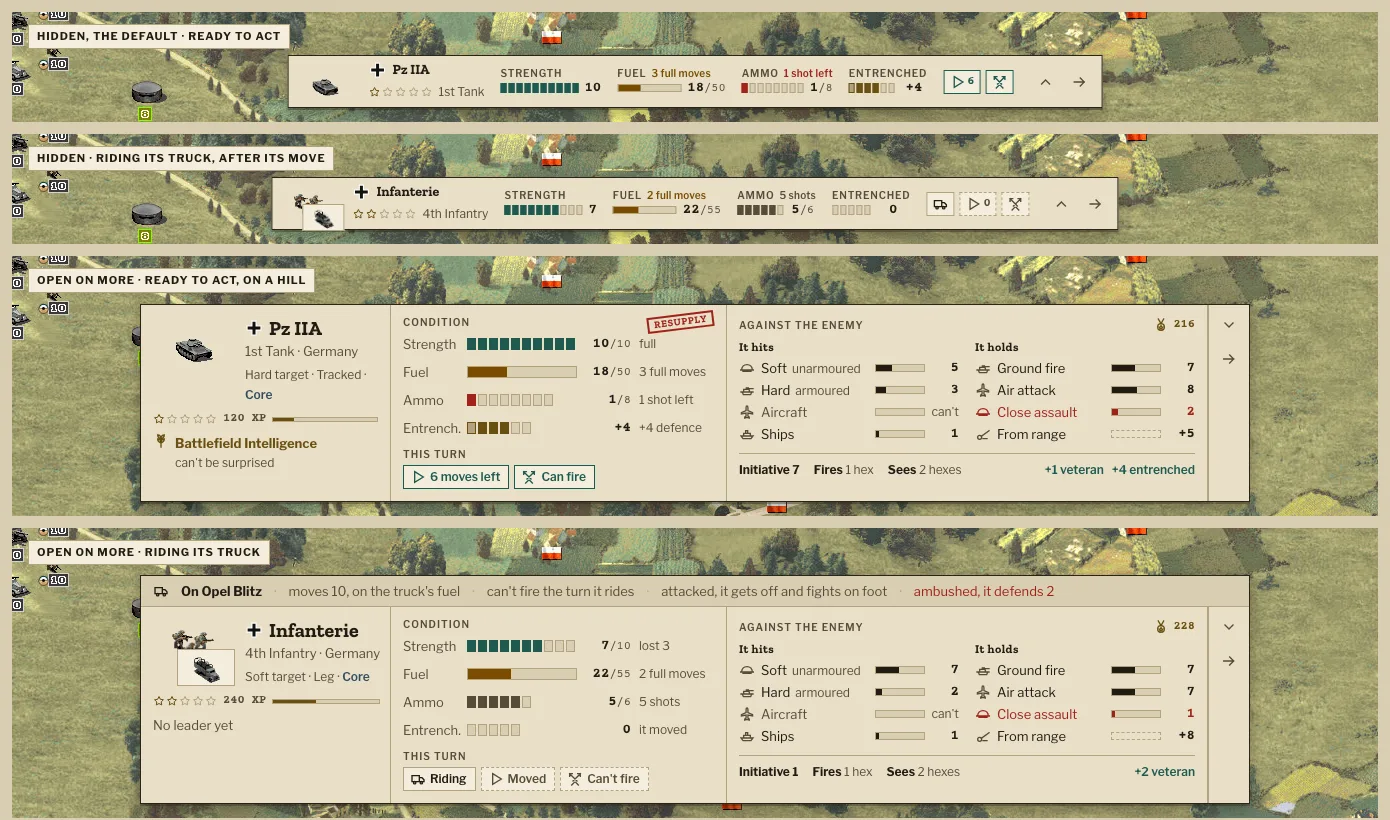
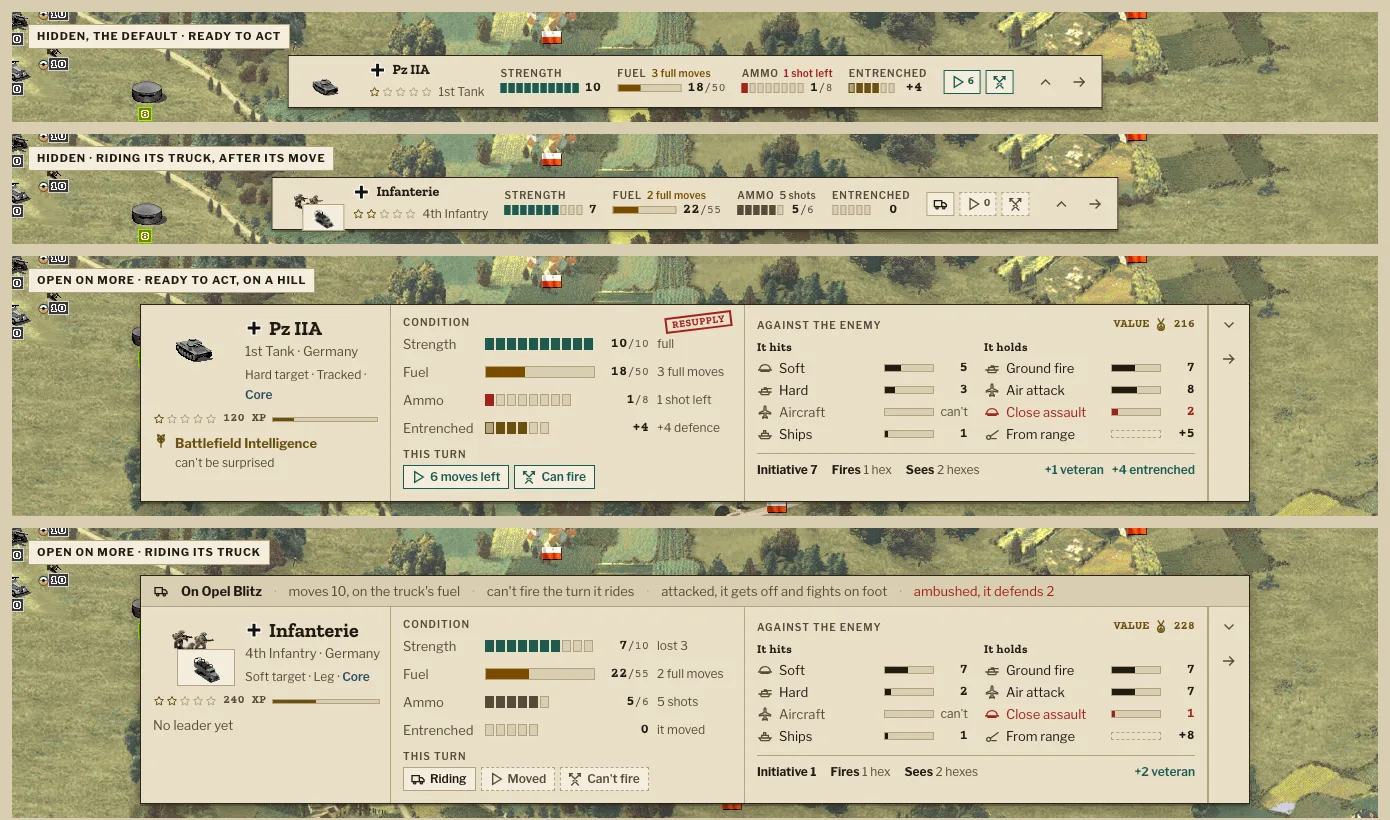
Tie every phrase of the proposed unit card to a core function
After the second review: the README's table names the core function behind each phrase (moves left from unitMoveRange, full moves from the same range, Can fire as the map's marker has it, entrenchment with all its exceptions, veteran, Resupply, the riding band) and says which still have to be written; the weak defence has a rule; Soft and Hard alone, explained in a tooltip; Value labelled; Entrenched in both sizes; over strength and aircraft fuel covered; the open card never opens by itself.

Changed region(s): [[0.3403, 0.3659, 0.7734, 0.5793], [0.3403, 0.7622, 0.7734, 0.9451], [0.8043, 0.3659, 0.8353, 0.3963]]

diff --git a/docs/ui/components/UnitInfo/preview.html b/docs/ui/components/UnitInfo/preview.html
@@ -39,14 +39,14 @@
   <div class="uc-c ok"><span class="k">Strength</span><span class="uc-segs" aria-hidden="true"><i class="on"></i><i class="on"></i><i class="on"></i><i class="on"></i><i class="on"></i><i class="on"></i><i class="on"></i><i class="on"></i><i class="on"></i><i class="on"></i></span><span class="v">10<small>/10</small></span><span class="say">full</span></div>
   <div class="uc-c low"><span class="k">Fuel</span><span class="uc-bar" aria-hidden="true"><b style="width:36%"></b></span><span class="v">18<small>/50</small></span><span class="say">3 full moves</span></div>
   <div class="uc-c critical"><span class="k">Ammo</span><span class="uc-segs" aria-hidden="true"><i class="on"></i><i class=""></i><i class=""></i><i class=""></i><i class=""></i><i class=""></i><i class=""></i><i class=""></i></span><span class="v">1<small>/8</small></span><span class="say">1 shot left</span></div>
-  <div class="uc-c dug"><span class="k" title="Entrenchment: the hill gives 1 at once, up to 6 here">Entrench.</span><span class="uc-segs" aria-hidden="true"><i class="on t"></i><i class="on"></i><i class="on"></i><i class="on"></i><i class=""></i><i class=""></i></span><span class="v">+4</span><span class="say">+4 defence</span></div>
+  <div class="uc-c dug"><span class="k" title="Entrenchment: the hill gives 1 at once, up to 6 here">Entrenched</span><span class="uc-segs" aria-hidden="true"><i class="on t"></i><i class="on"></i><i class="on"></i><i class="on"></i><i class=""></i><i class=""></i></span><span class="v">+4</span><span class="say" title="Its level adds to its defence. Not against units that ignore entrenchment, nor against Infiltration Tactics or Street Fighter in a city, rough ground or a port (unless it has Ferocious Defense); twice for infantry in a city, forest or mountain attacked by a tank, recon or anti-tank">+4 defence</span></div>
     <div class="uc-h t">This turn</div>
     <div class="uc-turn"><span class="uc-chip ok"><svg class="i sm" aria-hidden="true"><use href="#pm-play"/></svg>6 moves left</span><span class="uc-chip ok"><svg class="i sm" aria-hidden="true"><use href="#pm-attack"/></svg>Can fire</span></div>
   </div>
   <div class="uc-col uc-vs">
-    <div class="uc-h"><span>Against the enemy</span><span class="uc-val"><svg class="i sm" aria-hidden="true"><use href="#pm-prestige"/></svg>216</span></div>
+    <div class="uc-h"><span>Against the enemy</span><span class="uc-val" title="What the unit is worth, in prestige">Value <svg class="i sm" aria-hidden="true"><use href="#pm-prestige"/></svg>216</span></div>
     <div class="uc-two">
-      <div><div class="uc-sh">It hits</div><div class="uc-m"><svg class="i sm" aria-hidden="true"><use href="#pm-infantry"/></svg><span class="k">Soft<small>unarmoured</small></span><span class="uc-bar" aria-hidden="true"><b style="width:33%"></b></span><span class="v">5</span></div><div class="uc-m"><svg class="i sm" aria-hidden="true"><use href="#pm-tank"/></svg><span class="k">Hard<small>armoured</small></span><span class="uc-bar" aria-hidden="true"><b style="width:20%"></b></span><span class="v">3</span></div><div class="uc-m none"><svg class="i sm" aria-hidden="true"><use href="#pm-air"/></svg><span class="k">Aircraft</span><span class="uc-bar"></span><span class="v">can't</span></div><div class="uc-m"><svg class="i sm" aria-hidden="true"><use href="#pm-naval"/></svg><span class="k">Ships</span><span class="uc-bar" aria-hidden="true"><b style="width:7%"></b></span><span class="v">1</span></div></div>
+      <div><div class="uc-sh">It hits</div><div class="uc-m"><svg class="i sm" aria-hidden="true"><use href="#pm-infantry"/></svg><span class="k" title="Soft targets: unarmoured. Infantry, towed guns, trucks, most bunkers">Soft</span><span class="uc-bar" aria-hidden="true"><b style="width:33%"></b></span><span class="v">5</span></div><div class="uc-m"><svg class="i sm" aria-hidden="true"><use href="#pm-tank"/></svg><span class="k" title="Hard targets: armoured. Tanks, armoured cars, halftracks, self-propelled guns">Hard</span><span class="uc-bar" aria-hidden="true"><b style="width:20%"></b></span><span class="v">3</span></div><div class="uc-m none"><svg class="i sm" aria-hidden="true"><use href="#pm-air"/></svg><span class="k">Aircraft</span><span class="uc-bar"></span><span class="v">can't</span></div><div class="uc-m"><svg class="i sm" aria-hidden="true"><use href="#pm-naval"/></svg><span class="k">Ships</span><span class="uc-bar" aria-hidden="true"><b style="width:7%"></b></span><span class="v">1</span></div></div>
       <div><div class="uc-sh">It holds</div><div class="uc-m"><svg class="i sm" aria-hidden="true"><use href="#pm-ground"/></svg><span class="k">Ground fire</span><span class="uc-bar" aria-hidden="true"><b style="width:47%"></b></span><span class="v">7</span></div><div class="uc-m"><svg class="i sm" aria-hidden="true"><use href="#pm-air"/></svg><span class="k">Air attack</span><span class="uc-bar" aria-hidden="true"><b style="width:53%"></b></span><span class="v">8</span></div><div class="uc-m weak"><svg class="i sm" aria-hidden="true"><use href="#pm-infantry"/></svg><span class="k">Close assault</span><span class="uc-bar" aria-hidden="true"><b style="width:13%"></b></span><span class="v">2</span></div><div class="uc-m"><svg class="i sm" aria-hidden="true"><use href="#pm-artillery"/></svg><span class="k">From range</span><span class="uc-bar plus"></span><span class="v">+5</span></div></div>
     </div>
     <div class="uc-foot">
@@ -76,14 +76,14 @@
   <div class="uc-c ok"><span class="k">Strength</span><span class="uc-segs" aria-hidden="true"><i class="on"></i><i class="on"></i><i class="on"></i><i class="on"></i><i class="on"></i><i class="on"></i><i class="on"></i><i class=""></i><i class=""></i><i class=""></i></span><span class="v">7<small>/10</small></span><span class="say">lost 3</span></div>
   <div class="uc-c low"><span class="k">Fuel</span><span class="uc-bar" aria-hidden="true"><b style="width:40%"></b></span><span class="v">22<small>/55</small></span><span class="say">2 full moves</span></div>
   <div class="uc-c "><span class="k">Ammo</span><span class="uc-segs" aria-hidden="true"><i class="on"></i><i class="on"></i><i class="on"></i><i class="on"></i><i class="on"></i><i class=""></i></span><span class="v">5<small>/6</small></span><span class="say">5 shots</span></div>
-  <div class="uc-c dug"><span class="k" title="Entrenchment">Entrench.</span><span class="uc-segs" aria-hidden="true"><i class=""></i><i class=""></i><i class=""></i><i class=""></i><i class=""></i></span><span class="v">0</span><span class="say">it moved</span></div>
+  <div class="uc-c dug"><span class="k" title="Entrenchment: up to 5 in the open">Entrenched</span><span class="uc-segs" aria-hidden="true"><i class=""></i><i class=""></i><i class=""></i><i class=""></i><i class=""></i></span><span class="v">0</span><span class="say">it moved</span></div>
     <div class="uc-h t">This turn</div>
     <div class="uc-turn"><span class="uc-chip "><svg class="i sm" aria-hidden="true"><use href="#pm-mount"/></svg>Riding</span><span class="uc-chip off"><svg class="i sm" aria-hidden="true"><use href="#pm-play"/></svg>Moved</span><span class="uc-chip off"><svg class="i sm" aria-hidden="true"><use href="#pm-attack"/></svg>Can't fire</span></div>
   </div>
   <div class="uc-col uc-vs">
-    <div class="uc-h"><span>Against the enemy</span><span class="uc-val"><svg class="i sm" aria-hidden="true"><use href="#pm-prestige"/></svg>228</span></div>
+    <div class="uc-h"><span>Against the enemy</span><span class="uc-val" title="What the unit is worth, in prestige">Value <svg class="i sm" aria-hidden="true"><use href="#pm-prestige"/></svg>228</span></div>
     <div class="uc-two">
-      <div><div class="uc-sh">It hits</div><div class="uc-m"><svg class="i sm" aria-hidden="true"><use href="#pm-infantry"/></svg><span class="k">Soft<small>unarmoured</small></span><span class="uc-bar" aria-hidden="true"><b style="width:47%"></b></span><span class="v">7</span></div><div class="uc-m"><svg class="i sm" aria-hidden="true"><use href="#pm-tank"/></svg><span class="k">Hard<small>armoured</small></span><span class="uc-bar" aria-hidden="true"><b style="width:13%"></b></span><span class="v">2</span></div><div class="uc-m none"><svg class="i sm" aria-hidden="true"><use href="#pm-air"/></svg><span class="k">Aircraft</span><span class="uc-bar"></span><span class="v">can't</span></div><div class="uc-m"><svg class="i sm" aria-hidden="true"><use href="#pm-naval"/></svg><span class="k">Ships</span><span class="uc-bar" aria-hidden="true"><b style="width:7%"></b></span><span class="v">1</span></div></div>
+      <div><div class="uc-sh">It hits</div><div class="uc-m"><svg class="i sm" aria-hidden="true"><use href="#pm-infantry"/></svg><span class="k" title="Soft targets: unarmoured. Infantry, towed guns, trucks, most bunkers">Soft</span><span class="uc-bar" aria-hidden="true"><b style="width:47%"></b></span><span class="v">7</span></div><div class="uc-m"><svg class="i sm" aria-hidden="true"><use href="#pm-tank"/></svg><span class="k" title="Hard targets: armoured. Tanks, armoured cars, halftracks, self-propelled guns">Hard</span><span class="uc-bar" aria-hidden="true"><b style="width:13%"></b></span><span class="v">2</span></div><div class="uc-m none"><svg class="i sm" aria-hidden="true"><use href="#pm-air"/></svg><span class="k">Aircraft</span><span class="uc-bar"></span><span class="v">can't</span></div><div class="uc-m"><svg class="i sm" aria-hidden="true"><use href="#pm-naval"/></svg><span class="k">Ships</span><span class="uc-bar" aria-hidden="true"><b style="width:7%"></b></span><span class="v">1</span></div></div>
       <div><div class="uc-sh">It holds</div><div class="uc-m"><svg class="i sm" aria-hidden="true"><use href="#pm-ground"/></svg><span class="k">Ground fire</span><span class="uc-bar" aria-hidden="true"><b style="width:47%"></b></span><span class="v">7</span></div><div class="uc-m"><svg class="i sm" aria-hidden="true"><use href="#pm-air"/></svg><span class="k">Air attack</span><span class="uc-bar" aria-hidden="true"><b style="width:47%"></b></span><span class="v">7</span></div><div class="uc-m weak"><svg class="i sm" aria-hidden="true"><use href="#pm-infantry"/></svg><span class="k">Close assault</span><span class="uc-bar" aria-hidden="true"><b style="width:7%"></b></span><span class="v">1</span></div><div class="uc-m"><svg class="i sm" aria-hidden="true"><use href="#pm-artillery"/></svg><span class="k">From range</span><span class="uc-bar plus"></span><span class="v">+8</span></div></div>
     </div>
     <div class="uc-foot">

diff --git a/docs/ui/components/bundle.css b/docs/ui/components/bundle.css
@@ -304,7 +304,7 @@
 .uc-acts{display:inline-flex;gap:2px}.uc-acts.col{flex-direction:column;align-items:center;padding:var(--space-1);border-left:1px solid var(--line)}
 .uc-act{inline-size:2rem;min-inline-size:2rem;min-block-size:2rem;color:var(--ink-muted)}.uc-act.up svg{rotate:180deg}
 /* open */
-.uc-open{display:grid;grid-template-columns:250px 336px 1fr auto;width:1110px}
+.uc-open{display:grid;grid-template-columns:250px 354px 1fr auto;width:1110px}
 .uc-ribbon{grid-column:1/-1;display:flex;align-items:center;gap:var(--space-3);padding:5px var(--space-3);background:var(--panel-sunken);border-bottom:1px solid var(--line);font-size:var(--type-small-size);color:var(--ink)}
 .uc-ribbon span{color:var(--ink-muted)}.uc-ribbon span::before{content:"·";margin-right:var(--space-3);color:var(--line)}.uc-ribbon .warn{color:var(--critical)}
 .uc-col{padding:var(--space-3);border-right:1px solid var(--line);display:grid;align-content:start;gap:6px}
@@ -318,7 +318,7 @@
 .uc-h{display:flex;justify-content:space-between;align-items:center;font:600 var(--type-micro-size)/1 var(--font-ui);letter-spacing:.1em;text-transform:uppercase;color:var(--ink-muted)}
 .uc-h.t{margin-top:4px}
 .uc-cond .uc-h .uc-stamp{font-size:var(--type-micro-size);letter-spacing:.06em;padding:1px 5px;rotate:-3deg;margin:-4px 0;max-inline-size:96px}
-.uc-c{display:grid;grid-template-columns:56px 112px 44px 1fr;align-items:center;gap:8px;min-height:22px}
+.uc-c{display:grid;grid-template-columns:74px 112px 44px 1fr;align-items:center;gap:8px;min-height:22px}
 .uc-c .k{font-size:var(--type-small-size);color:var(--ink-muted)}
 .uc-c .v{font:700 var(--type-body-size)/1 var(--font-mono);color:var(--ink);text-align:right}
 .uc-c .say{font-size:var(--type-note-size);color:var(--ink-muted);white-space:nowrap}
@@ -328,7 +328,7 @@
 .uc-two{display:grid;grid-template-columns:1fr 1fr;gap:var(--space-4)}
 .uc-sh{font:700 var(--type-note-size)/1 var(--font-display);color:var(--ink);margin:2px 0 4px;letter-spacing:.04em}
 .uc-m{display:grid;grid-template-columns:16px 1fr 50px 28px;align-items:center;gap:6px;min-height:22px;color:var(--ink);white-space:nowrap}
-.uc-m .i{color:var(--ink-muted)}.uc-m .k{font-size:var(--type-small-size)}.uc-m .k small{margin-left:5px;font-size:var(--type-note-size);color:var(--ink-muted)}.uc-m .uc-bar{inline-size:50px}.uc-m .uc-bar b{background:var(--ink)}
+.uc-m .i{color:var(--ink-muted)}.uc-m .k{font-size:var(--type-small-size)}.uc-m .uc-bar{inline-size:50px}.uc-m .uc-bar b{background:var(--ink)}
 .uc-m .v{font:700 var(--type-body-size)/1 var(--font-mono);text-align:right}
 .uc-m.none .k,.uc-m.none .v{color:var(--ink-muted);font-weight:400}.uc-m.none .v{font-family:var(--font-ui);font-size:var(--type-note-size)}
 .uc-m.weak .k,.uc-m.weak .v,.uc-m.weak .i{color:var(--critical)}.uc-m.weak .uc-bar b{background:var(--critical)}

diff --git a/docs/ui/components/UnitInfo/README.md b/docs/ui/components/UnitInfo/README.md
@@ -2,38 +2,45 @@
 
 Everything about the selected unit, docked at the bottom in the middle. Every number says what it does for the player: not "Ammo 1/8" alone but "1 shot left". The map stays quiet (#441): the card opens hidden, as one line, and the open card only on More.
 
-**Every phrase comes from the core, never from an estimate in the UI.** Each one the card computes is a core function with its unit test, built before the card uses it:
+**Every phrase comes from the core, never from an estimate in the UI.** Each phrase the card computes reads one core function, with its unit test. Where the function doesn't exist yet, the phrase waits for it: no approximation in the view.
 
-| Phrase | Is | Core |
-|---|---|---|
-| "3 full moves" | fuel ÷ (move points + the leaders' moves), rounded down: a move burns as much fuel as the points it uses | a new `fullMoves(w, u)` beside `movesLeft`, src/core/world.ts; the transport's when riding |
-| "1 shot left" | the ammo: every shot uses one round, return and support fire too | `fire`, src/core/fight.ts |
-| "+4 defence" | the entrenchment level, added 1:1 to the defence | the "entrenchment" step, src/core/combat.ts (not against infiltration tactics; twice for infantry in close terrain attacked by vehicles: the attack preview shows the fight's own) |
-| entrenchment segments | the hex's limit: the terrain's base + 5; the base drawn lighter | `entrench`, src/core/turn.ts |
-| "6 moves left", "Can fire", "Moved", "Can't fire" | the unit's moves left and whether it may still fire | `movesLeft`; a new `canFireNow(w, u)` from `hasFired`, the ammo and riding (src/core/units.ts) |
-| the weak defence in `critical` | close defence under half the ground defence | a pure rule on the equipment, tested |
+| Phrase | Means | Function | Exists |
+|---|---|---|---|
+| "6 moves left" | the hexes it can still move, fuel and leaders counted | `unitMoveRange`, src/core/movement.ts (movesLeft + leaderMoves, cut to the fuel; 1 for a towed gun with no transport) | yes |
+| "3 full moves" | fuel ÷ the full range of that same function: a move burns the fuel of the points it uses (`burn`, src/core/moves.ts); riding, the transport's fuel and range | a new `fullMoves(w, u)` beside `unitMoveRange` | no |
+| "1 shot left" | the rounds left: every shot uses one, return and support fire too | `fire`, src/core/fight.ts; `ammoOf`, src/core/world.ts | yes |
+| "Can fire", "Can't fire" | it has its shot: not fired, uses ammo and has some. The map's marker says the same (#436); whether a target is in range is another question, not the card's | `readiness` in src/view/mapview.ts, moved to the core as a new `canFireNow(w, u)` that both read | no |
+| "+4 defence" | the entrenchment level, added 1:1 to the defence; the exceptions in its tooltip | the "entrenchment" step, src/core/combat.ts: none against a unit that ignores entrenchment (`ignoresEntrenchment`), nor against Infiltration Tactics or Street Fighter in a city, rough ground or a port unless the defender has Ferocious Defense; twice for infantry in a city, forest or mountain attacked by a tank, recon or anti-tank | as a combat step: a new `entrenchmentDefence(w, u)` for the card |
+| entrenchment segments | the hex's limit, the terrain's base + 5; the base drawn lighter | `entrench`, src/core/turn.ts; its limit as a new `entrenchLimit(w, u)` | no |
+| "+1 veteran" | one per 100 XP, added to attack and defence in every fight | the "experience" step, src/core/combat.ts (`expBars`) | yes, to export |
+| Resupply stamp | ammo or fuel critical, and it can resupply here now | `canResupply`, src/core/supply.ts | yes |
+| riding: "moves 10, on the truck's fuel" | the transport's range and fuel | `unitMoveRange` and `fuelOf` on the mounted unit | yes |
+| riding: "can't fire the turn it rides" | a move riding sets `hasFired` | `burn`, src/core/moves.ts; as a rule, a new `ridingStopsFire(w, u)` | no |
+| riding: "attacked, it gets off and fights on foot" | mounted infantry, not surprised, defends with its own data | the "infantry dismounts" step, src/core/combat.ts; a new `dismountsWhenAttacked(w, u)` | no |
+| riding: "ambushed, it defends 2" | surprised, or not infantry: the transport's ground defence | the same step | no |
+| the weak defence in `critical` | the lowest of ground, air and close defence, when it is at most half the highest of the three | a pure rule on the equipment, with its test | no |
 
-**Hidden, the default: one line.** The sprite (with its transport's when riding), nation mark, name, stars and ordinal; the four gauges, each with its label and, in the label, what it means; what the unit can still do this turn, as compact chips (an icon and a number, the words in their tooltip and for screen readers: the gauges already say the rest); More and Next unit. It replaces the strip that had only the name and three numbers.
+**Hidden, the default: one line.** The sprite (with its transport's when riding), nation mark, name, stars and ordinal; the four gauges, each with its label and, in the label, what it means; what the unit can still do this turn, as compact chips (an icon and a number, the words in their tooltip and for screen readers: the gauges already say the rest); More and Next unit. Every icon has its tooltip and a name for screen readers ("6 moves left", "Can fire", "More", "Next unit"). It replaces the strip that had only the name and three numbers.
 
-**Open, on More: the one other size.** The unfolded band is gone: what it had that matters moved here, the rest went. Less, or Esc, folds it back to the line.
+**Open, on More: the one other size.** The unfolded band is gone: what it had that matters moved here, the rest went. Less, Esc or a click on the map folds it back to the line. It never opens by itself: it takes about 40% of the map's height.
 
 - **Identity:** sprite, nation mark, name, ordinal, class and country; its target type, movement and Core in one line ("Hard target · Tracked · Core"); the stars with the XP and a bar to the next star; the leader with what it gives in a line. No prose about its role: the numbers below say it.
 - **Condition:** strength, fuel, ammo and entrenchment as gauges, each with its value and its meaning. A `pm-stamp` ("Resupply") when ammo or fuel is critical.
 - **This turn:** chips for what it can still do, in `ok`, and what it can't, dashed and muted.
-- **Against the enemy:** what it hits and what it holds against each kind of enemy, with a bar on the 0–15 scale, then initiative, gun range and spotting, and the bonuses in force (veteran, entrenched). The unit's value in prestige in the corner.
+- **Against the enemy:** what it hits and what it holds against each kind of enemy, with a bar on the 0–15 scale, then initiative, gun range and spotting, and the bonuses in force (veteran, entrenched). Its value in prestige in the corner, labelled "Value".
 - **Buttons:** Less and Next unit, small icons in a column (Next only on the side's own units).
 
 **What each gauge says** (the game's rules, docs/MECHANICS.md):
 
-- **Strength:** ten segments, one per strength point; in `ok`, `low` (6 or less) or `critical` (3 or less). Every point fires on its own.
-- **Fuel:** a bar, and the full moves it is enough for: fuel ÷ move points, rounded down. A full move never costs more fuel than its points (#70, #214), so the count is a floor. A unit that uses none shows "–"; a unit with a transport shows the transport's fuel.
+- **Strength:** ten segments, one per strength point; in `ok`, `low` (6 or less) or `critical` (3 or less). Every point fires on its own. Over strength (11 to 15, one per 100 XP) the segments past ten are drawn in `accent-ink` and the word is "+2 over"; under ten it is "lost 3", at ten "full".
+- **Fuel:** a bar, and the full moves it is enough for (`fullMoves`). A unit that uses none shows "–"; a unit with a transport shows the transport's fuel. Aircraft show the fuel alone, "18/50", with no moves: they have to get back to an airfield, which a count of moves would hide.
 - **Ammo:** one segment per round, and "N shots left": every shot uses one round, return and support fire too (`fire`, src/core/fight.ts).
-- **Entrenchment:** one segment per level, as many as the hex allows: the terrain's base + 5 (`entrench`, src/core/turn.ts): 5 in the open, 6 on a hill or port, 7 in a forest, bocage, mountain or rough ground, 8 in a city, 9 in a fortification. The terrain's own levels (it gets them at once) are drawn lighter than those it dug. It adds its level to the defence; moving loses all of it, every hit one level. The strip says "Entrenched", the card "Entrench." with "Entrenchment" in its tooltip.
+- **Entrenchment:** one segment per level, as many as the hex allows: the terrain's base + 5: 5 in the open, 6 on a hill or port, 7 in a forest, bocage, mountain or rough ground, 8 in a city, 9 in a fortification. The terrain's own levels (it gets them at once) are drawn lighter than those it dug. Moving loses all of it, every hit one level. "Entrenched" in the strip and the card alike.
 
 **Against the enemy.** The game splits targets by armour, not weight: every unit is a soft (unarmoured), hard (armoured), air or naval target. Soft: all infantry, most towed guns, trucks and wagons, most bunkers. Hard: every tank, armoured cars, halftracks, self-propelled guns. A light tank is hard; a heavy towed gun isn't.
 
-- **It hits:** Soft, Hard, Aircraft, Ships: the soft, hard, air and naval attack, the game's own words as the equipment window and the odds card say them, each with "unarmoured" or "armoured" beside it. Renaming them Unarmoured and Armoured is for the whole UI at once, or not at all. An attack of 0 against aircraft is "can't": only a unit with an air attack fires on aircraft.
-- **It holds:** Ground fire (ground defence), Air attack (air defence), Close assault (close defence: infantry attacking it in a city, forest, mountain or fortification), From range (the range defence modifier, added in full at range, half adjacent). The weakest, when under half the ground defence, is in `critical`.
+- **It hits:** Soft, Hard, Aircraft, Ships: the soft, hard, air and naval attack, the game's own words as the equipment window and the odds card say them. What soft and hard mean is said once, in their tooltip. Renaming them Unarmoured and Armoured is for the whole UI at once, or not at all. An attack of 0 against aircraft is "can't": only a unit with an air attack fires on aircraft.
+- **It holds:** Ground fire (ground defence), Air attack (air defence), Close assault (close defence: infantry attacking it in a city, forest, mountain or fortification), From range (the range defence modifier, added in full at range, half adjacent). The weak one is in `critical` by the rule in the table: the lowest of the three, at most half the highest.
 - **Initiative:** just "Initiative 7"; its tooltip says the side with more gets +4 defence and up to +4 attack.
 
 **Riding.** A unit on its transport shows its own values, the ones it fights with: mounted infantry attacked gets off and fights on foot (src/core/combat.ts). A band over the card says what riding does: the transport's moves and fuel, no fire the turn it rides, and the transport's ground defence if it was ambushed. A towed gun riding defends with the transport's values: its band says so in `critical`. The old window's Unit / Transport / Carrier views are gone; the carrier gets the same band.
